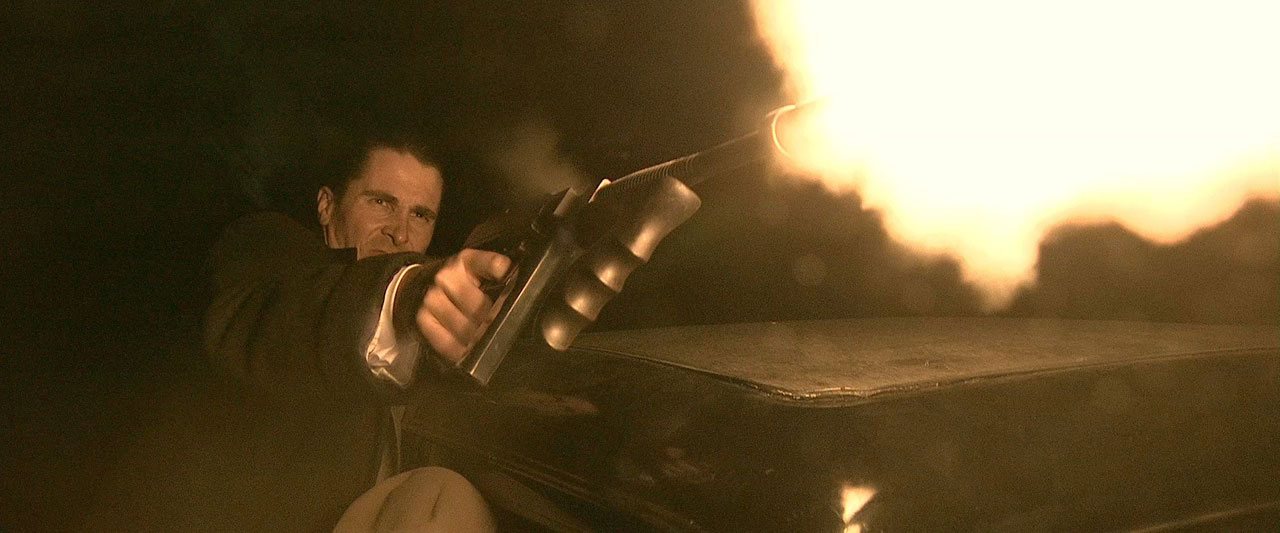
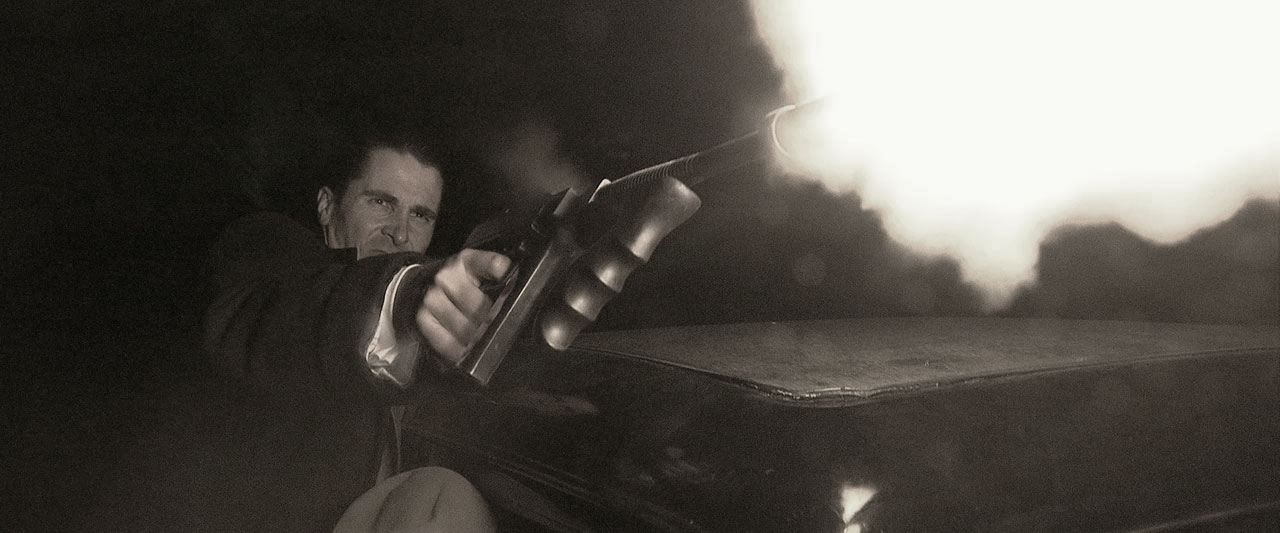
use a desaturated photo instead of forcing webkit-filter: grayscale

diff --git a/stylesheets/main.css b/stylesheets/main.css
@@ -41,8 +41,8 @@ h2 {
 }
 
 img {
-  -webkit-filter: grayscale(90%);
-  filter: grayscale(90%);
+/*  -webkit-filter: grayscale(90%);
+  filter: grayscale(90%);*/
   width: 100%;
 }
 
